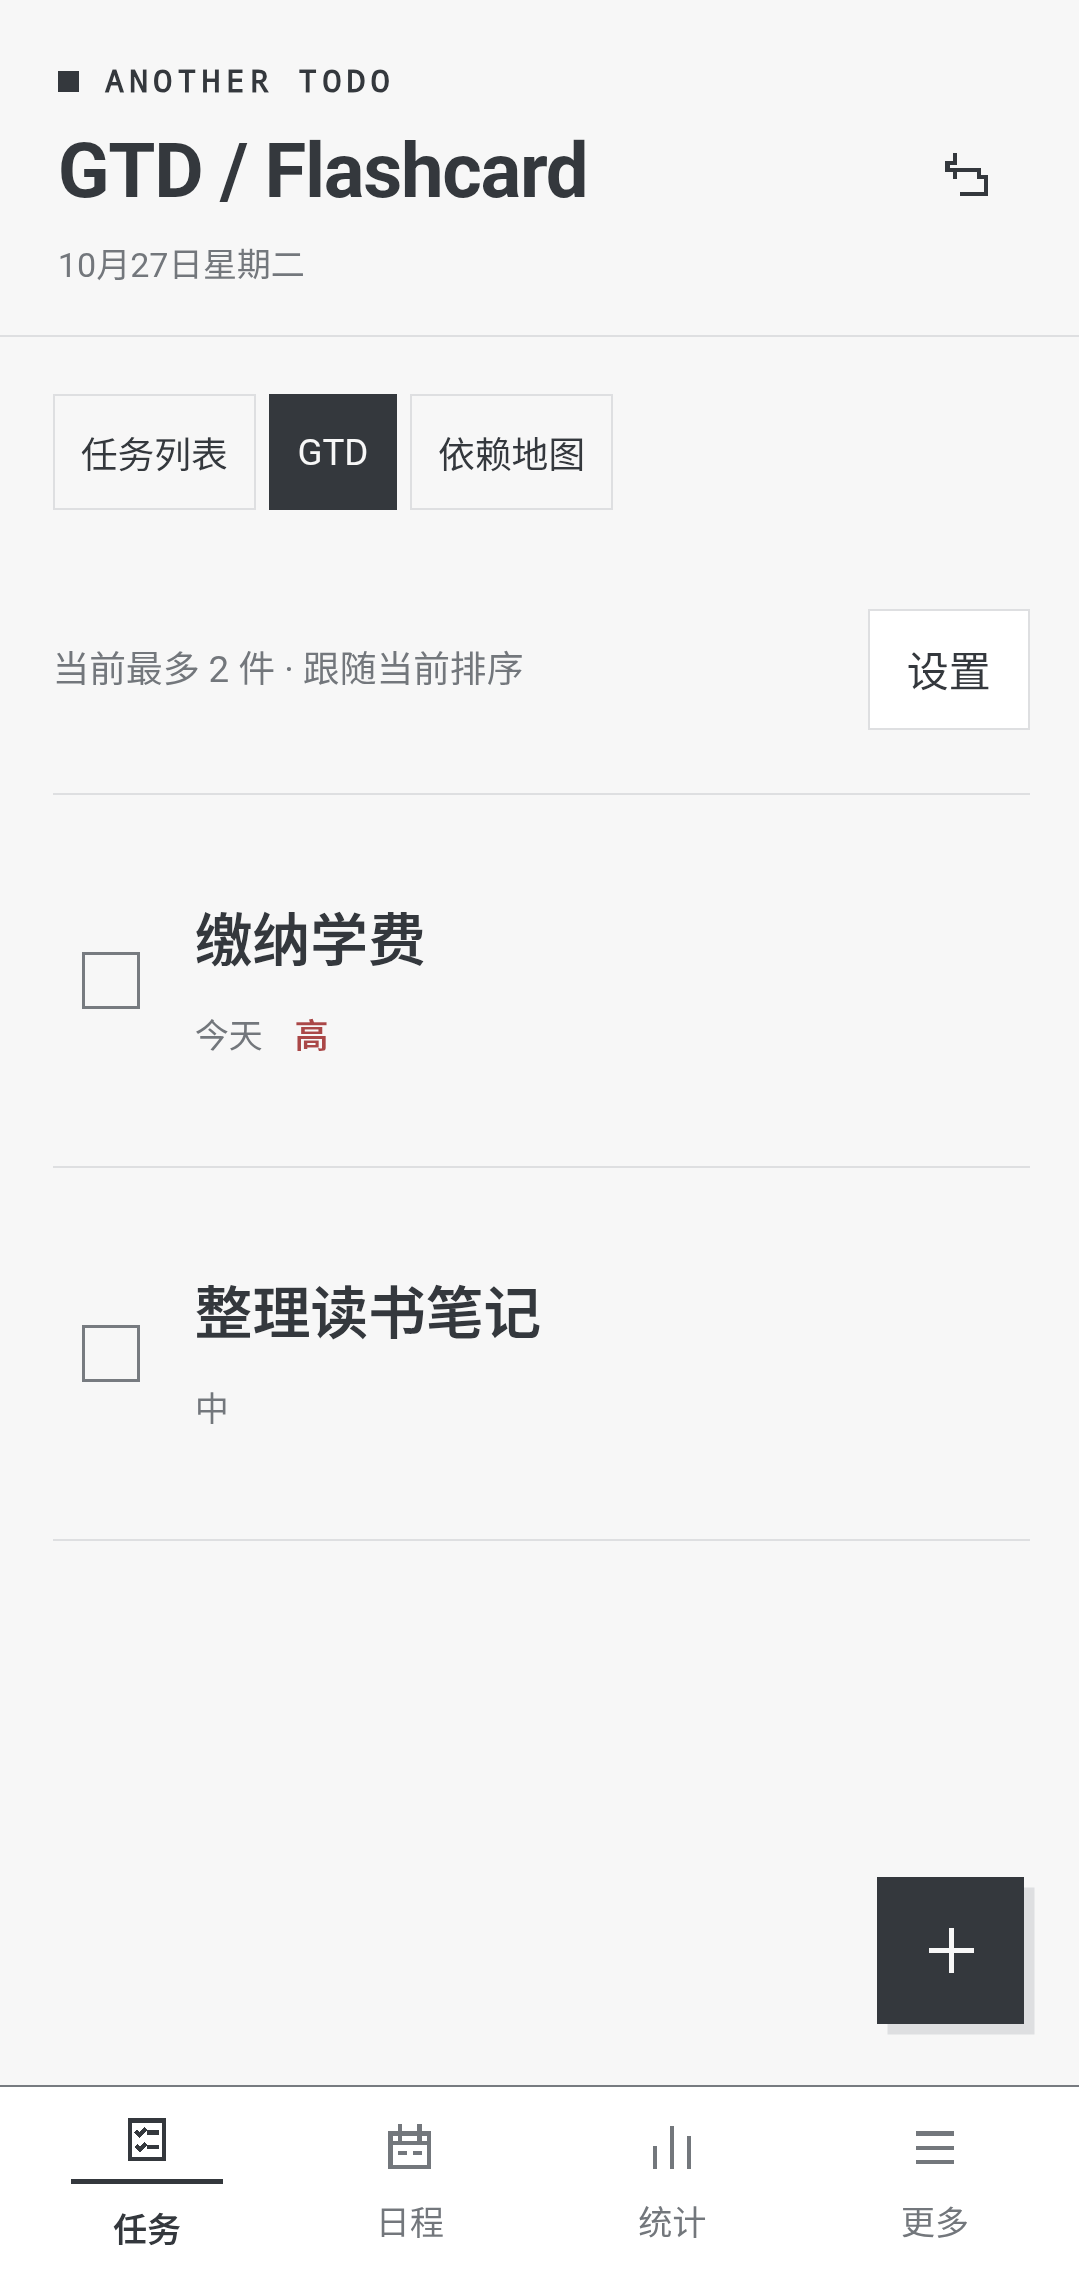
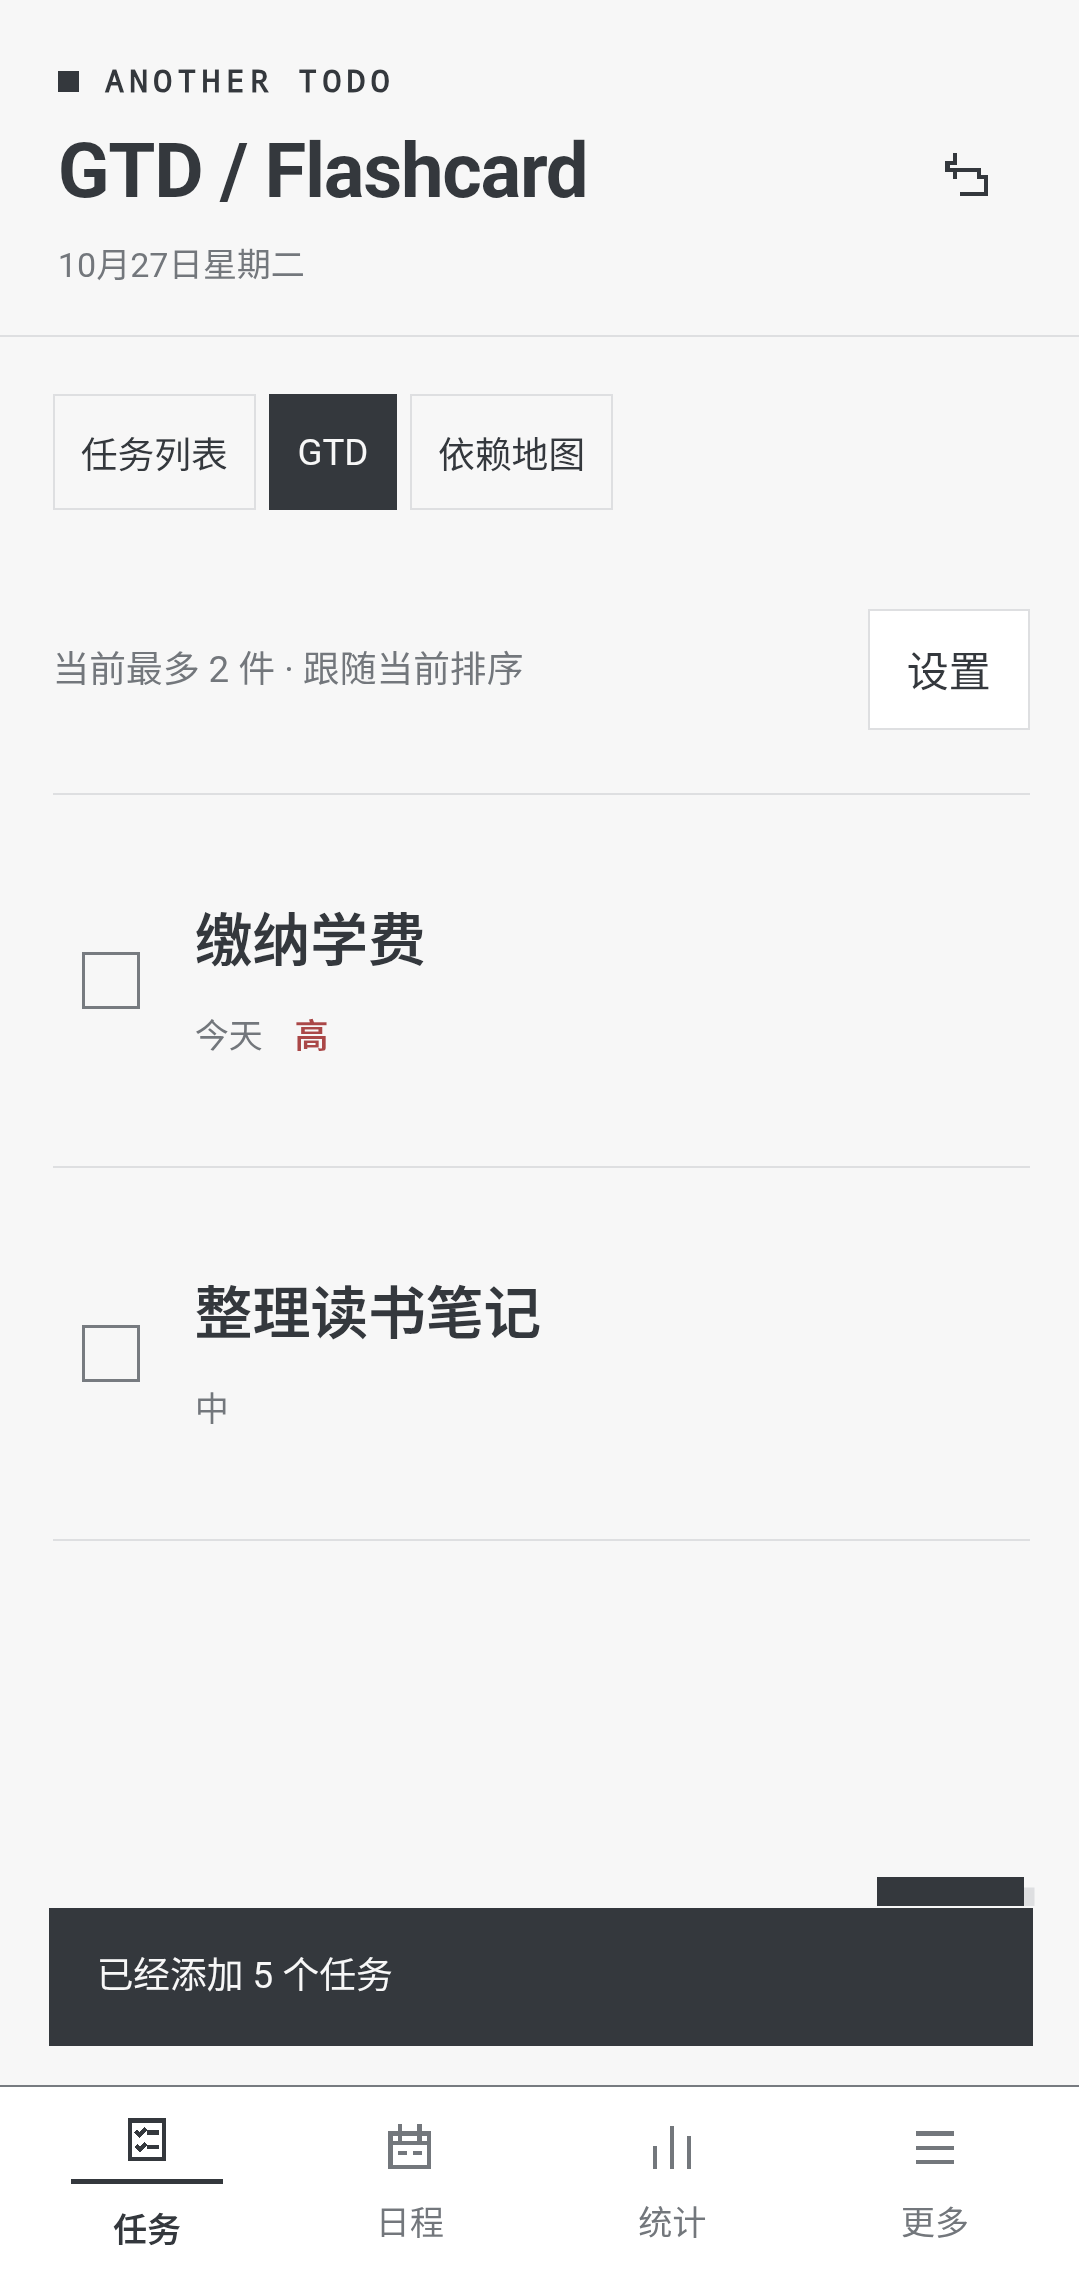
Verify script namespaces, nested projects and completion visuals

Changed region(s): [[0.0306, 0.8121, 0.9787, 0.9059]]

diff --git a/src/core/projects.ts b/src/core/projects.ts
@@ -15,7 +15,7 @@ export const executableTasks = (tasks: readonly Task[], catalog: readonly Task[]
       seen.add(parent);
       const ancestor = byId.get(parent);
       if (!ancestor) break;
-      if (ancestor.kind === 'project' && (!ACTIVE_STATES.has(ancestor.status) || hiddenByWait(ancestor, now.slice(0, 10)) || blockedDependencies(ancestor, catalog).length)) return false;
+      if (ancestor.kind === 'project' && (!ACTIVE_STATES.has(ancestor.status) || ancestor.status === 'paused' || hiddenByWait(ancestor, now.slice(0, 10)) || blockedDependencies(ancestor, catalog).length)) return false;
       parent = ancestor.parent;
     }
     return true;
@@ -27,11 +27,21 @@ export const projectAgenda = (agenda: Group[], catalog: Task[], now = localNow()
   const projects = new Set(catalog.filter(task => task.kind === 'project' && ACTIVE_STATES.has(task.status)).map(task => task.id));
   const candidates = agenda.flatMap(group => group.tasks);
   const chosen = new Map<string, Task>();
-  for (const task of candidates) if (task.parent && projects.has(task.parent) && ready.has(task.id) && !chosen.has(task.parent)) chosen.set(task.parent, task);
+  const readyBranches = new Set(ready);
+  const byId = new Map(catalog.map(task => [task.id, task]));
+  for (const id of ready) {
+    let parent = byId.get(id)?.parent;
+    const seen = new Set<string>();
+    while (parent) {
+      if (seen.has(parent)) throw new Error('父子任务形成循环');
+      seen.add(parent); readyBranches.add(parent); parent = byId.get(parent)?.parent;
+    }
+  }
+  for (const task of candidates) if (task.parent && projects.has(task.parent) && readyBranches.has(task.id) && !chosen.has(task.parent)) chosen.set(task.parent, task);
   const visibleParents = new Set(candidates.filter(task => projects.has(task.id)).map(task => task.id));
+  const expand = (task: Task): Task[] => { const child = chosen.get(task.id); return child ? [task, ...expand(child)] : [task]; };
   return agenda.map(group => ({ ...group, tasks: group.tasks.flatMap(task => {
     if (task.parent && visibleParents.has(task.parent) && projects.has(task.parent)) return [];
-    const child = chosen.get(task.id);
-    return child ? [task, child] : [task];
+    return expand(task);
   }) })).filter(group => group.tasks.length || group.key === 'hidden');
 };

diff --git a/tests/projects-focus.test.ts b/tests/projects-focus.test.ts
@@ -16,6 +16,14 @@ const fresh = async (): Promise<ApplicationService> => {
 };
 
 describe('project and focus workflows', () => {
+  it('shows the current step through nested project parents', async () => {
+    const service = await fresh();
+    const catalog = [parseTask({ id: 'outer', title: '学习计划', kind: 'project' }), parseTask({ id: 'book', title: '阅读书籍', kind: 'project', parent: 'outer' }), parseTask({ id: 'chapter1', title: '学习第一章', parent: 'book' }), parseTask({ id: 'chapter2', title: '学习第二章', parent: 'book', dependsOn: ['chapter1'] })];
+    await service.store.saveMany(catalog.map(task => ({ task })));
+    const config = await service.config();
+    expect(projectAgenda(groups(catalog, config), catalog).flatMap(group => group.tasks).map(task => task.id)).toEqual(['outer', 'book', 'chapter1']);
+    expect(executableTasks(catalog, catalog).map(task => task.id)).toEqual(['chapter1']);
+  });
   it('keeps project completion atomic when an external prerequisite is open', async () => {
     const service = await fresh();
     const prerequisite = await service.add('取得参考资料 @none');
@@ -85,6 +93,8 @@ describe('project and focus workflows', () => {
     await writeFile(scriptPath, 'function recommend(tasks) { return tasks.sort((a, b) => a.title < b.title ? 1 : -1).map(t => t.id); }');
     const custom = await recommend(tasks, tasks, config, {}, service.store.paths.dir);
     expect(custom.map(task => task.title)).toEqual([...executableTasks(tasks, tasks)].sort((a, b) => b.title > a.title ? 1 : -1).slice(0, 2).map(task => task.title));
+    await writeFile(scriptPath, 'const input = "reading"; const output = []; function recommend(tasks) { return tasks.map(task => task.id); }');
+    expect(await recommend(tasks, tasks, config, {}, service.store.paths.dir)).toHaveLength(2);
     await writeFile(scriptPath, 'function recommend() { return ["missing"]; }');
     await expect(recommend(tasks, tasks, config, {}, service.store.paths.dir)).rejects.toThrow('未知');
     await writeFile(scriptPath, 'function recommend(tasks) { return [tasks[0].id, tasks[0].id]; }');

diff --git a/src/core/recommendation.ts b/src/core/recommendation.ts
@@ -29,7 +29,7 @@ export const runRecommendation = async (source: string, tasks: Task[], catalog: 
   vm.runtime.setInterruptHandler(() => Date.now() > deadline);
   const payload = vm.newString(JSON.stringify(input));
   vm.setProp(vm.global, '__atd_input', payload); payload.dispose();
-  const result = vm.evalCode(`"use strict";\n${source}\n;const input = JSON.parse(__atd_input);\nconst output = recommend(input.tasks, input.context);\nif (!Array.isArray(output) || output.some(id => typeof id !== 'string')) throw new Error('recommend 必须返回任务编号数组');\nJSON.stringify(output);`, 'recommendation.js');
+  const result = vm.evalCode(`"use strict";\n${source}\n;(function () {\nconst input = JSON.parse(__atd_input);\nconst output = recommend(input.tasks, input.context);\nif (!Array.isArray(output) || output.some(id => typeof id !== 'string')) throw new Error('recommend 必须返回任务编号数组');\nreturn JSON.stringify(output);\n})();`, 'recommendation.js');
   if (result.error) {
     const error = vm.dump(result.error) as { message?: string };
     result.error.dispose();

diff --git a/docs/projects-gtd.md b/docs/projects-gtd.md
@@ -96,6 +96,8 @@ list = true
 
 ## 验证与截图
 
+[安卓章节连续替换录像](images/projects-gtd/android-project-transition.mp4) 展示实际 APK 中的划线、下一章节出现与上移过程。
+
 `tests/projects-focus.test.ts` 使用真实存储和真实解释器，检查五章项目、推进、自动完成、项目完成、撤销、脚本文件读取、执行错误和候选校验。
 
 `node tools/test-projects-focus-tui.mjs` 启动真实 Windows PTY，通过 xterm 显示终端输出并保存截图；检查项目推进、GTD 补充事项、独立脚本修改与重新加载、普通清单复用脚本。
@@ -106,5 +108,6 @@ list = true
 | --- | --- | --- |
 | 项目与当前章节 | [截图](images/projects-gtd/tui-project.png) | [截图](images/projects-gtd/android-project.png) |
 | 章节完成与替换 | [动画过程](images/projects-gtd/tui-project-animation.png)、[下一章节](images/projects-gtd/tui-project-next.png) | [动画过程](images/projects-gtd/android-project-animation.png)、[下一章节](images/projects-gtd/android-project-next.png) |
+| 完成整个项目 | 共享服务验证完成与撤销 | [五个章节全部完成](images/projects-gtd/android-project-completed.png) |
 | GTD 信息流 | [截图](images/projects-gtd/tui-gtd.png) | [截图](images/projects-gtd/android-gtd.png) |
 | 用户脚本 | [推荐结果](images/projects-gtd/tui-script.png)、[普通清单](images/projects-gtd/tui-script-list.png) | [脚本设置](images/projects-gtd/android-script-settings.png)、[推荐结果](images/projects-gtd/android-script-result.png) |
